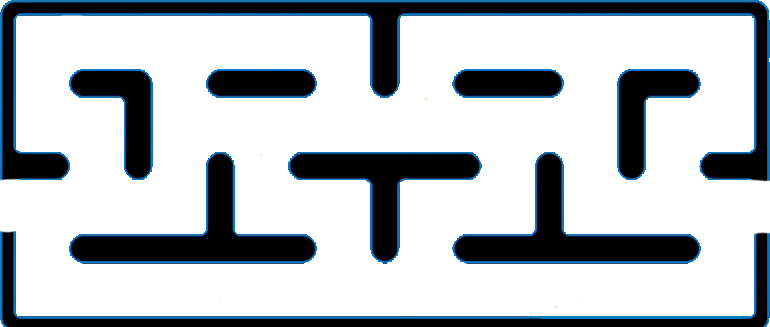
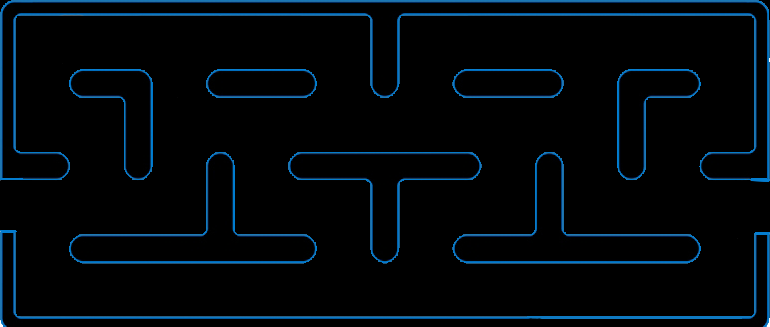
version_4
funcion para colisiones hecha, inicio de la elaboracion del laberinto.

diff --git a/mainwindow.cpp b/mainwindow.cpp
@@ -10,10 +10,97 @@ MainWindow::MainWindow(QWidget *parent)
     ui->graphicsView->setScene(scene);
     scene->setSceneRect(0,0,770,330);
     scene->backgroundBrush();
-    ui->graphicsView->setBackgroundBrush(QPixmap(":/resources/resources/fondo_pacm_man.png"));
-    player= new jugador(20,42,42);
+    ui->graphicsView->setBackgroundBrush(QPixmap());
+    player= new jugador(10,20,20);
+    pared_9 = new pared(0,0,520,10);//arriba-
+    pared_10 = new pared(0,0,10,300);//izquierda-
+    pared_11 = new pared(-520,0,10,300);//derecha-
+    pared_12 = new pared(0,-300,530,10);//abajo-
+
+    pared_1 = new pared(-50,-50,80,5);//abajo-
+    pared_2 = new pared(-50,-60,80,5);//arriba-
+    pared_3 = new pared(-50,-50,5,15);//derecha-
+    pared_4 = new pared(-130,-50,5,15);//izquierda-
+    pared_5 = new pared(-170,-50,100,5);//abajo-
+    pared_6 = new pared(-170,-60,100,5);//arriba-
+    pared_7 = new pared(-170,-50,5,15);//derecha-
+    pared_8 = new pared(-270,-50,5,15);//izquierda-
+    pared_13 = new pared(-320,-10,5,55);//derecha-
+    pared_14 = new pared(-320,-60,50,5);//arriba-
+    pared_15 = new pared(-370,-10,5,55);//izquierda-
+    pared_16 = new pared(-410,-30,5,80);//derecha-
+    pared_18 = new pared(-410,-30,30,5);//abajo-
+    pared_19 = new pared(-440,-30,5,80);//izquierda-
+    pared_20 = new pared(-410,-110,35,5);//arriba-
+    pared_17 = new pared(-490,-10,5,100);//derecha-
+    pared_21 = new pared(-490,-110,30,5);//arriba-
+    pared_22 = new pared(-50,-110,320,5);//abajo-
+    pared_23 = new pared(-50,-110,5,50);//derecha
+    pared_24 = new pared(-370,-110,5,50);//izquierda
+    pared_25 = new pared(-50,-160,325,5);//arriba
+
     scene->addItem(player);
+    scene->addItem(pared_1);
+    scene->addItem(pared_2);
+    scene->addItem(pared_3);
+    scene->addItem(pared_4);
+    scene->addItem(pared_5);
+    scene->addItem(pared_6);
+    scene->addItem(pared_7);
+    scene->addItem(pared_8);
+    scene->addItem(pared_9);
+    scene->addItem(pared_10);
+    scene->addItem(pared_11);
+    scene->addItem(pared_12);
+    scene->addItem(pared_13);
+    scene->addItem(pared_14);
+    scene->addItem(pared_15);
+    scene->addItem(pared_16);
+    scene->addItem(pared_17);
+    scene->addItem(pared_18);
+    scene->addItem(pared_19);
+    scene->addItem(pared_20);
+    scene->addItem(pared_21);
+    scene->addItem(pared_22);
+    scene->addItem(pared_23);
+    scene->addItem(pared_24);
+    scene->addItem(pared_25);
     timer= new QTimer;
+
+    //Derecha
+    paredes_der.push_back(pared_11);
+    paredes_der.push_back(pared_3);
+    paredes_der.push_back(pared_7);
+    paredes_der.push_back(pared_13);
+    paredes_der.push_back(pared_16);
+    paredes_der.push_back(pared_17);
+    paredes_der.push_back(pared_23);
+
+    //izquierda
+    paredes_izq.push_back(pared_8);
+    paredes_izq.push_back(pared_4);
+    paredes_izq.push_back(pared_10);
+    paredes_izq.push_back(pared_15);
+    paredes_izq.push_back(pared_19);
+    paredes_izq.push_back(pared_24);
+
+    //arriba
+    paredes_up.push_back(pared_2);
+    paredes_up.push_back(pared_6);
+    paredes_up.push_back(pared_9);
+    paredes_up.push_back(pared_21);
+    paredes_up.push_back(pared_14);
+    paredes_up.push_back(pared_21);
+    paredes_up.push_back(pared_25);
+
+    //abajo
+    paredes_do.push_back(pared_1);
+    paredes_do.push_back(pared_5);
+    paredes_do.push_back(pared_12);
+    paredes_do.push_back(pared_18);
+    paredes_do.push_back(pared_22);
+
+
     connect(timer,SIGNAL(timeout()),this,SLOT(mover()));
 }
 
@@ -25,20 +112,51 @@ MainWindow::~MainWindow()
 void MainWindow::keyPressEvent(QKeyEvent *evento)
 {
     if(evento->key()==Qt::Key_D)
-    {
-        player->MoveRight();
+    {       
+        if(EvaluarColision(paredes_der)==false)
+        {
+            player->MoveRight();
+        }
     }
     else if(evento->key()==Qt::Key_A)
     {
-        player->MoveLeft();
+        if(EvaluarColision(paredes_izq)==false)
+        {
+            player->MoveLeft();
+        }
     }
     else if(evento->key()==Qt::Key_W)
     {
-        player->MoveUp();
+        if(EvaluarColision(paredes_up)==false)
+        {
+            player->MoveUp();
+        }
     }
     else if(evento->key()==Qt::Key_S)
     {
-        player->MoveDown();
+        if(EvaluarColision(paredes_do)==false)
+        {
+          player->MoveDown();
+        }
     }
     qDebug()<<"posx = "<<player->getPosx()<<" posy ="<<player->getPosy();
 }
+
+bool MainWindow::EvaluarColision(QList<pared* > listparedes)
+{
+
+     if(!listparedes.isEmpty())
+     {
+         QList<pared *>::iterator it;
+         for(it=listparedes.begin(); it!=listparedes.end(); it++)
+         {
+             if((*it)->collidesWithItem(player))
+             {
+                 return true;
+             }
+         }
+
+     }
+     return false;
+}
+

diff --git a/mainwindow.h b/mainwindow.h
@@ -6,6 +6,8 @@
 #include <QKeyEvent>
 #include <QTimer>
 #include <QDebug>
+#include <pared.h>
+#include <QList>
 
 QT_BEGIN_NAMESPACE
 namespace Ui { class MainWindow; }
@@ -25,6 +27,38 @@ private:
     QGraphicsScene *scene;
     void keyPressEvent(QKeyEvent *evento);
     QTimer *timer;
+    pared *pared_1;
+    pared *pared_2;
+    pared *pared_3;
+    pared *pared_4;
+    pared *pared_5;
+    pared *pared_6;
+    pared *pared_7;
+    pared*pared_8;
+    pared *pared_9;
+    pared *pared_10;
+    pared *pared_11;
+    pared *pared_12;
+    pared *pared_13;
+    pared *pared_14;
+    pared *pared_15;
+    pared *pared_16;
+    pared *pared_17;
+    pared *pared_18;
+    pared *pared_19;
+    pared *pared_20;
+    pared *pared_21;
+    pared *pared_22;
+    pared *pared_23;
+    pared *pared_24;
+    pared *pared_25;
+
+    QList<pared *> paredes_der;
+    QList<pared *> paredes_izq;
+    QList<pared *> paredes_up;
+    QList<pared *> paredes_do;
+    //QList<pared>::iterator *it;
+    bool EvaluarColision(QList<pared *> listparedes);
 
 };
 #endif // MAINWINDOW_H

diff --git a/pared.cpp b/pared.cpp
@@ -1,0 +1,66 @@
+#include "pared.h"
+
+int pared::getPosx() const
+{
+    return posx;
+}
+
+void pared::setPosx(int value)
+{
+    posx = value;
+}
+
+int pared::getPosy() const
+{
+    return posy;
+}
+
+void pared::setPosy(int value)
+{
+    posy = value;
+}
+
+int pared::getW() const
+{
+    return w;
+}
+
+void pared::setW(int value)
+{
+    w = value;
+}
+
+int pared::getH() const
+{
+    return h;
+}
+
+void pared::setH(int value)
+{
+    h = value;
+}
+
+QRectF pared::boundingRect() const
+{
+    return QRect(-posx,-posy,w,h);
+}
+
+void pared::paint(QPainter *painter, const QStyleOptionGraphicsItem *option, QWidget *widget)
+{
+    painter->setBrush(Qt::blue);
+    painter->drawRect(boundingRect());
+}
+
+pared::pared()
+{
+
+}
+
+pared::pared(int x, int y, int w_, int h_)
+{
+    posx=x;
+    posy=y;
+    w=w_;
+    h=h_;
+
+}

diff --git a/pared.h b/pared.h
@@ -1,0 +1,28 @@
+#ifndef PARED_H
+#define PARED_H
+#include <QGraphicsItem>
+#include <QPainter>
+
+class pared: public QGraphicsItem
+{
+    int posx;
+    int posy;
+    int w;
+    int h;
+
+public:
+    pared();
+    pared(int x, int y, int w_, int h_ );
+    int getPosx() const;
+    void setPosx(int value);
+    int getPosy() const;
+    void setPosy(int value);
+    int getW() const;
+    void setW(int value);
+    int getH() const;
+    void setH(int value);
+    QRectF boundingRect() const;
+    void paint(QPainter *painter, const QStyleOptionGraphicsItem *option, QWidget *widget = nullptr);
+};
+
+#endif // PARED_H

diff --git a/jugador.cpp b/jugador.cpp
@@ -50,9 +50,11 @@ QRectF jugador::boundingRect() const
 
 void jugador::paint(QPainter *painter, const QStyleOptionGraphicsItem *option, QWidget *widget)
 {
-    QPixmap pixmap;
+    /*QPixmap pixmap;
     pixmap.load(":/resources/resources/pacman_3.png");
-    painter->drawPixmap(boundingRect(),pixmap,pixmap.rect());
+    painter->drawPixmap(boundingRect(),pixmap,pixmap.rect());*/
+    painter->setBrush(Qt::yellow);
+    painter->drawEllipse(boundingRect());
 }
 
 void jugador::MoveRight()
